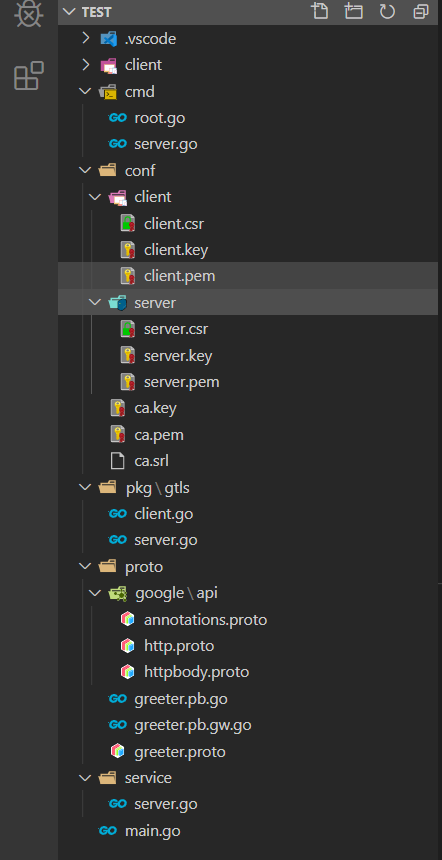
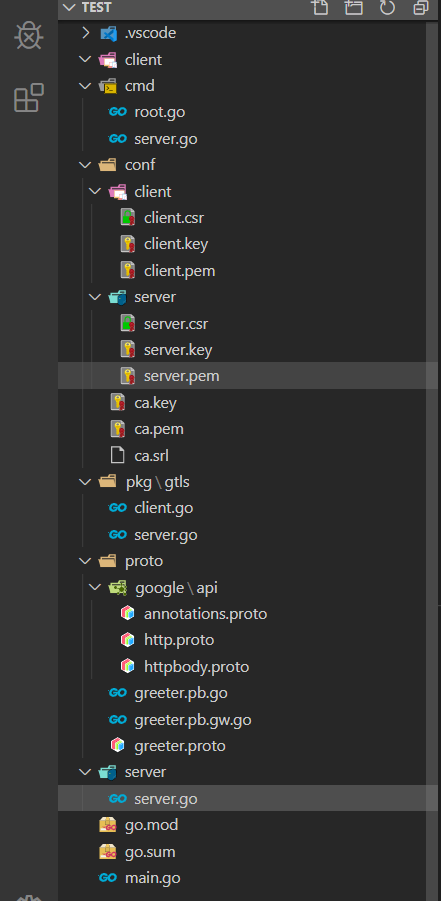
update

Changed region(s): [[0.1179, 0.0, 1.0, 1.0], [0.0295, 0.0, 0.1179, 0.1209], [0.0295, 0.9977, 0.1179, 1.0]]

diff --git a/6.后台/4.go/01.windows环境/03.go之插件/01.go之grpc-gateway(protoc插件)/02.grpc-gateway之让你的服务同时提供 HTTP 接口.md b/6.后台/4.go/01.windows环境/03.go之插件/01.go之grpc-gateway(protoc插件)/02.grpc-gateway之让你的服务同时提供 HTTP 接口.md
@@ -1,19 +1,71 @@
 总操作流程
-- 1、[编写cmd模块](#go-01)
-- 2、[编辑server模块](#go-02)
-- 3、[编辑client模块](#go-03)
-- 4、[测试](#go-05)
-
-> 本教程基于：go-grpc之Unary and Stream interceptor(拦截器)
+- 1、[制作证书](#go-01)
+- 2、[编写cmd模块](#go-02)
+- 3、[编辑server模块](#go-03)
+- 4、[测试](#go-04)
 
 ***
 
-- 项目目录
 
-![](image/2-1.png)
+# <a name="go-01" href="#" >制作证书</a>
 
 
-# <a name="go-01" href="#" >编写cmd模块</a>
+- 1、ca。在test项目下创建conf的文件夹
+
+```shell
+# 运行cmd，进入conf的文件夹下
+openssl genrsa -out ca.key 2048
+
+openssl req -new -x509 -days 7200 -key ca.key -out ca.pem
+
+# 填写信息时，需要这个Common Name写到客户端那里
+Common Name (eg, fully qualified host name) []:DK_Li
+
+```
+
+- 2、server。在test项目conf的文件夹下创建server文件夹
+```shell
+# 运行cmd，进入conf/server的文件夹下
+cd server
+
+# 私钥，自动生成server.key
+openssl ecparam -genkey -name secp384r1 -out server.key
+
+# 生成 CSR
+openssl req -new -key server.key -out server.csr
+
+# 填写信息时，需要这个Common Name写到客户端那里
+Common Name (eg, fully qualified host name) []:DK_Li
+
+# 基于 CA 签发
+openssl x509 -req -sha256 -CA ../ca.pem -CAkey ../ca.key -CAcreateserial -days 3650 -in server.csr -out server.pem
+
+
+```
+
+- 3、client。在test项目conf的文件夹下创建client文件夹
+```shell
+# 运行cmd，进入conf/client的文件夹下
+cd client
+# 私钥，自动生成client.key
+openssl ecparam -genkey -name secp384r1 -out client.key
+
+# 生成 CSR
+openssl req -new -key client.key -out client.csr
+
+# 填写信息时，需要这个Common Name写到客户端那里
+Common Name (eg, fully qualified host name) []:DK_Li
+
+# 基于 CA 签发
+openssl x509 -req -sha256 -CA ../ca.pem -CAkey ../ca.key -CAcreateserial -days 3650 -in client.csr -out client.pem
+
+
+```
+
+
+# <a name="go-02" href="#" >编写cmd模块</a>
+
+- 在test项目下创建文件夹proto/google
 
 > 1、下载google的api
 
@@ -64,7 +116,7 @@ protoc --grpc-gateway_out=logtostderr=true:. greeter.proto
 
 > 3、编写cmd模块
 
-- 在service模块下 新建server.go文件
+- 在test项目创建server文件夹，并且新建server.go文件
 
 ```go
 package server
@@ -93,7 +145,7 @@ func Serve() (err error){
 }
 ```
 
-- 在cmd模块下 新建root.go文件
+- 在test项目创建cmd文件夹，并且新建root.go文件
 
 ```go
 package cmd
@@ -118,7 +170,7 @@ func Execute() {
 }
 ```
 
-- 在cmd模块下 server.go文件
+- 在cmd文件夹下新建server.go文件
 
 ```go
 package cmd
@@ -128,7 +180,7 @@ import (
 
     "github.com/spf13/cobra"
 
-    "test/service"
+    "test/server"
 )
 
 var serverCmd = &cobra.Command{
@@ -149,13 +201,13 @@ func init() {
     serverCmd.Flags().StringVarP(&server.ServerPort, "port", "p", "50052", "server port")
     serverCmd.Flags().StringVarP(&server.CertPemPath, "cert-pem", "", "./conf/server/server.pem", "cert pem path")
     serverCmd.Flags().StringVarP(&server.CertKeyPath, "cert-key", "", "./conf/server/server.key", "cert key path")
-    serverCmd.Flags().StringVarP(&server.CertName, "cert-name", "", "grpc server name", "server's hostname")
+    serverCmd.Flags().StringVarP(&server.CertName, "cert-name", "", "DK_Li", "server's hostname")
     rootCmd.AddCommand(serverCmd)
 }
 
 ```
 
-- 在根目录下 新建main.go
+- 在test项目根目录下 新建main.go
 
 ```go
 package main
